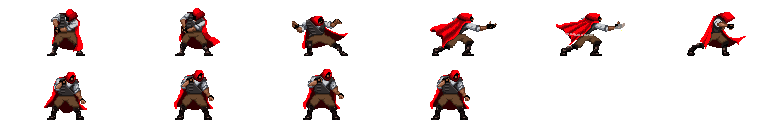
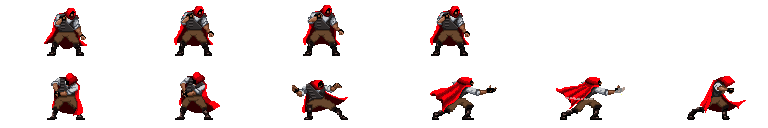
Generate random challenges, added multiplication monster, you can now answer challenges.

diff --git a/js/battleScreen.js b/js/battleScreen.js
@@ -1,0 +1,99 @@
+class BattleScreen {
+    constructor(canvas, context, sprites, staticImages) {
+        this.canvas = canvas;
+        this.context = context;
+        this.sprites = sprites;
+        this.staticImages = staticImages;
+        this.challenge = null;
+        
+        this.playerHealth = 5;
+        this.monsterHealth = 3;
+    }
+
+    loop() {
+        this.context.clearRect(0, 0, this.canvas.width, this.canvas.height);
+				
+		this.context.textAlign = 'left';
+		this.context.font = '8px "Here Lies MECC"';
+		this.context.fillStyle = 'white';
+		this.context.fillText('Math Quest', 0, 10);
+		
+		this.context.drawImage(this.staticImages['plains-background'], 0, 20);
+
+		this.sprites['knife-thrower'].render(this.context, 0, 20);
+		this.sprites['multiplication-monster'].render(this.context, 160, 20);
+		
+		for (var key in this.sprites) {
+			if (this.sprites.hasOwnProperty(key)) {			
+				this.sprites[key].update();
+			}
+		}
+
+		if (this.challenge) {
+			this.context.textAlign = 'left';
+			this.context.font = '8px "Here Lies MECC"';
+			this.context.fillStyle = 'white';
+			this.context.fillText(this.challenge.question, 0, 105);
+			let ordinal = 1;
+			this.challenge.choices.forEach(choice => {
+				this.context.fillText(ordinal + ". " + choice.value, 0, 110 + 10 * ordinal);
+				ordinal++;
+			});
+		}
+    }
+    
+    doCorrectAnswer() {
+        console.log("Correct answer!");
+
+        this.monsterHealth -= 1;
+        console.log("Monster health is now " + this.monsterHealth);
+
+        window.game.challenge = window.challengeGenerator.generateRandomIntegerMultiplicationChallenge();
+        this.challenge = window.game.challenge;
+    }
+
+    doWrongAnswer() {
+        console.log("Wrong answer!");
+        let random = new Random();
+        if (random.int(1, 8) === 8) {
+            console.log("The monster missed!");
+        } else {
+            this.playerHealth -= 1;
+            console.log("Player health is now " + this.playerHealth);
+        }
+    }
+
+    onKeyDown(keyCode) {
+        switch (keyCode) {
+            case keyboard.ONE:
+                if (this.challenge.choices[0].correct) {
+                    this.doCorrectAnswer();
+                } else {
+                    this.doWrongAnswer();
+                }
+                break;
+            case keyboard.TWO:
+                if (this.challenge.choices[1].correct) {
+                    this.doCorrectAnswer();
+                } else {
+                    this.doWrongAnswer();
+                }
+                break;
+            case keyboard.THREE:
+                if (this.challenge.choices[2].correct) {
+                    this.doCorrectAnswer();
+                } else {
+                    this.doWrongAnswer();
+                }
+                break;
+            case keyboard.FOUR:
+                if (this.challenge.choices[3].correct) {
+                    this.doCorrectAnswer();
+                } else {
+                    this.doWrongAnswer();
+                }
+                break;
+
+        }
+    }
+}

diff --git a/js/game.js b/js/game.js
@@ -7,15 +7,7 @@ class Game {
 		this.staticImages = {};
 		this.self = this;
 		this.gameLoopInterval = null;
-		this.challenge = {
-			question: "995 x 9 = ?",
-			choices: shuffle([
-				{ value: "8955", correct: true},
-				{ value: "9959", correct: false},
-				{ value: "81815", correct: false},
-				{ value: "8945", correct: false}
-			])
-		};
+		this.challenge = window.challengeGenerator.generateRandomIntegerMultiplicationChallenge();
 	}
 
 	preLoadImages() {	
@@ -50,43 +42,17 @@ class Game {
 			}
 		}
 	}
-				
+
 	gameLoop() {		
-		this.context.clearRect(0, 0, this.canvas.width, this.canvas.height);
-				
-		this.context.textAlign = 'left';
-		this.context.font = '8px "Here Lies MECC"';
-		this.context.fillStyle = 'white';
-		this.context.fillText('Math Quest', 0, 10);
-		
-		game.context.drawImage(game.staticImages['plains-background'], 0, 20);
-
-		game.sprites['knife-thrower'].render(game.context, 0, 20);
-		
-		for (var key in game.sprites) {
-			if (game.sprites.hasOwnProperty(key)) {			
-				game.sprites[key].update();
-			}
-		}
-
-		if (game.challenge) {
-			game.context.textAlign = 'left';
-			game.context.font = '8px "Here Lies MECC"';
-			game.context.fillStyle = 'white';
-			game.context.fillText(game.challenge.question, 0, 105);
-			let ordinal = 1;
-			game.challenge.choices.forEach(choice => {
-				game.context.fillText(ordinal + ". " + choice.value, 0, 110 + 10 * ordinal);
-				ordinal++;
-			});
-		}
+		window.battleScreen.loop();
 	}
 
 	onMouseDown(event) {
-        event.preventDefault();
+		//TODO
+        /*event.preventDefault();
 		var x = event.pageX - this.canvas.offsetLeft;
 		var y = event.pageY - this.canvas.offsetTop;
-		this.handleTouchInput(x, y);
+		this.handleTouchInput(x, y);*/
 	}
 	
 	onTouchStart(event) {
@@ -106,12 +72,17 @@ class Game {
 		
 		this.canvas.addEventListener("touchstart", this.onTouchStart, false);
         this.canvas.addEventListener("mousedown", this.onMouseDown, false);
-        document.addEventListener("mousedown", this.onMouseDown, false);
+		document.addEventListener("mousedown", this.onMouseDown, false);
+		
+		window.battleScreen = new BattleScreen(this.canvas, this.context, this.sprites, this.staticImages);
+		window.battleScreen.challenge = this.challenge;
 	}
 
 	startGame() {	
 		window.document.onkeydown = function(event) {
-			// We can use this to accept global keyboard input, like pausing on ENTER or something.
+			if (window.game.challenge) {
+				window.battleScreen.onKeyDown(event.keyCode);
+			}
 		}
 		this.touchHandler = null;
 		

diff --git a/js/challengeGenerator.js b/js/challengeGenerator.js
@@ -1,0 +1,30 @@
+class ChallengeGenerator {
+    constructor() {
+    }
+
+    generateRandomIntegerMultiplicationChallenge() {
+        let min = 0;
+        let random = new Random();
+        let x = random.int(min, 999);
+        let y = random.int(min, 10);
+        let rightAnswerValue = x * y;
+
+        let question = x + " x " + y + " = ?";
+
+        let answers = [];
+        answers.push({
+            value: rightAnswerValue,
+            correct: true
+        });
+        for (let i = 0; i < 3; i++) {
+            let wrongAnswer = {
+                value: rightAnswerValue + random.int(-50, 100),
+                correct: false};
+            answers.push(wrongAnswer);
+        }
+
+        return new Challenge(question, shuffle(answers));
+    }
+}
+
+window.challengeGenerator = new ChallengeGenerator();

diff --git a/index.html b/index.html
@@ -14,6 +14,10 @@
 	</canvas>
 
 	<script type="text/javascript" src="js/assets.js"></script>
+	<script type="text/javascript" src="js/random.js"></script>
+	<script type="text/javascript" src="js/challenge.js"></script>
+	<script type="text/javascript" src="js/challengeGenerator.js"></script>
+	<script type="text/javascript" src="js/battleScreen.js"></script>
 	<script type="text/javascript" src="js/sprite.js"></script>
 	<script type="text/javascript" src="js/loadingScreen.js"></script>
 	<script type="text/javascript" src="js/keyboard.js"></script>

diff --git a/js/sprite.js b/js/sprite.js
@@ -36,7 +36,7 @@ class Sprite {
 
 	render(context, x, y) {	
 		let sX = this.frameWidth * this.animationIndex;
-		let sY = 64; // This is so it shows the beathing animation for the knife thrower instead of the throwing animation.
+		let sY = 0; // This will show the idle animation for the knife-thrower and the multiplication monster; we can increase this by 64 to get the attack animation.
 		context.drawImage(this.image, sX, sY, this.frameWidth, this.frameHeight, x, y, this.frameWidth, this.frameHeight);
 	}
 

diff --git a/js/assets.js b/js/assets.js
@@ -3,6 +3,11 @@ var spriteAssets = {
 		file: 'img/knife-thrower.png',
 		frameHeight: 64,
 		frameWidth: 128
+	},
+	'multiplication-monster': {
+		file: 'img/multiplication-monster.png',
+		frameHeight: 64,
+		frameWidth: 128
 	}
 }
 

diff --git a/js/random.js b/js/random.js
@@ -1,0 +1,8 @@
+class Random {
+    constructor() {        
+    }
+
+    int(min, max) {
+        return Math.floor(Math.random() * max) + min;
+    }
+}

diff --git a/js/challenge.js b/js/challenge.js
@@ -1,0 +1,6 @@
+class Challenge {
+    constructor(question, choices) {
+        this.question = question;
+        this.choices = choices;
+    }
+}

diff --git a/js/keyboard.js b/js/keyboard.js
@@ -5,5 +5,9 @@ var keyboard = {
 	UP: 38,
 	RIGHT: 39,
 	DOWN: 40,
-	X: 88
+	X: 88,
+	ONE: 49,
+	TWO: 50,
+	THREE: 51,
+	FOUR: 52
 };
